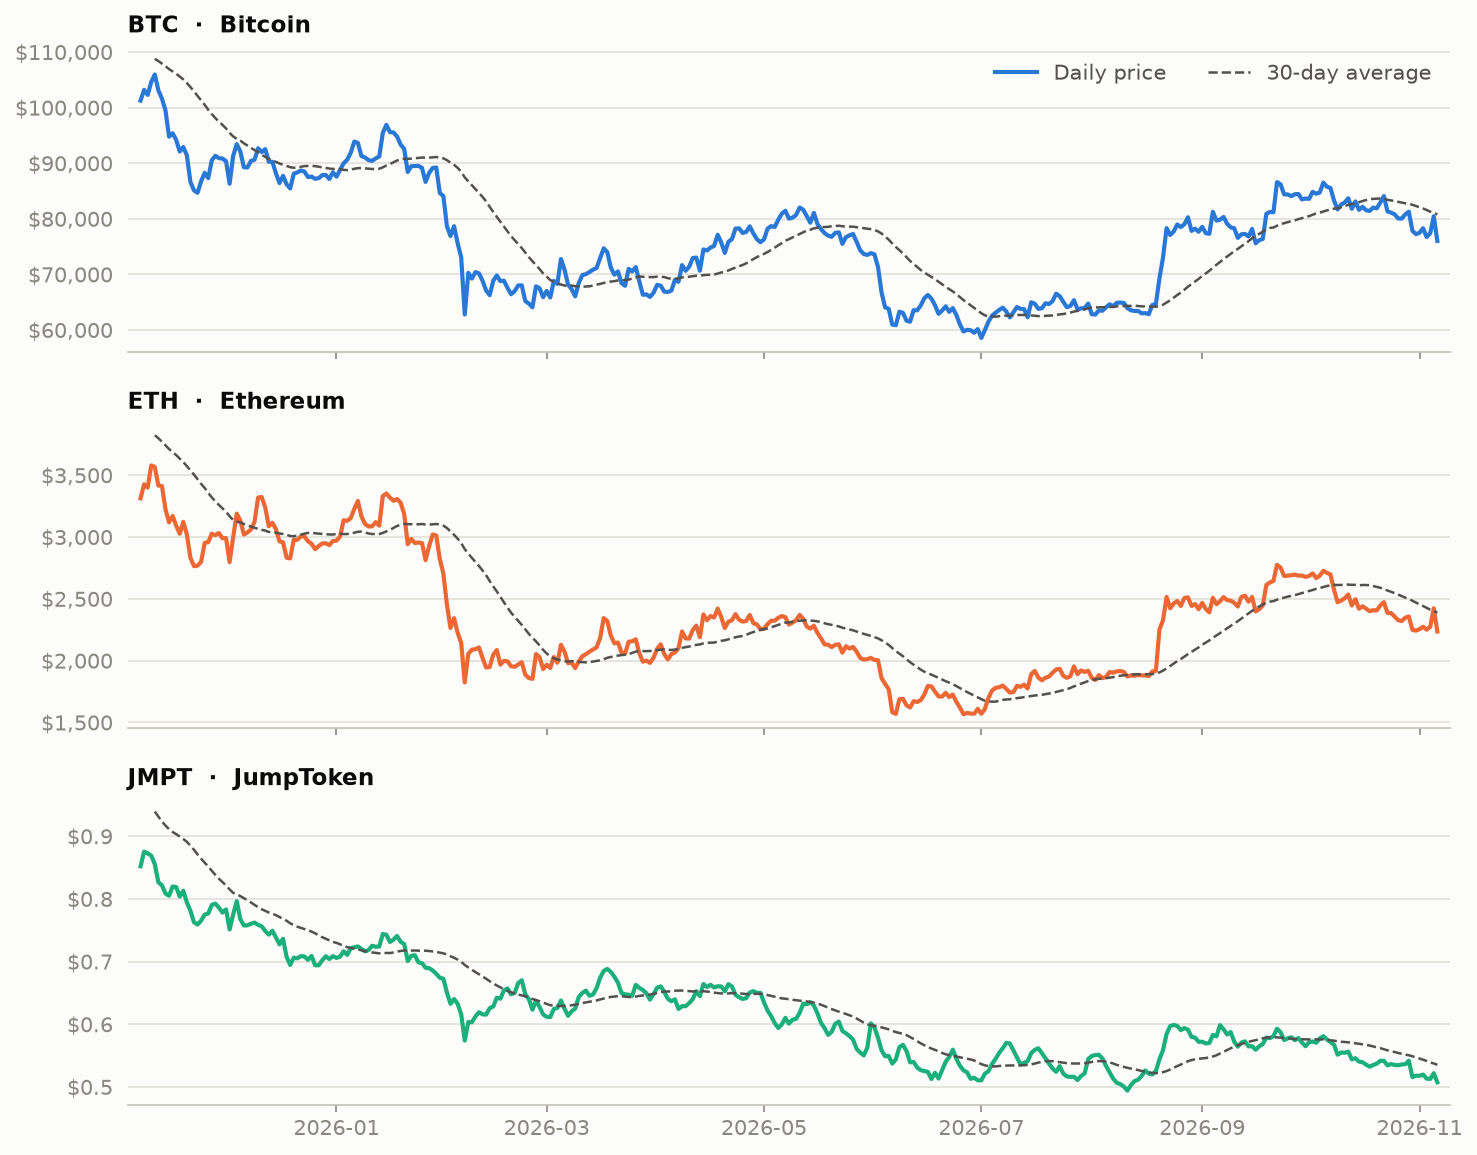
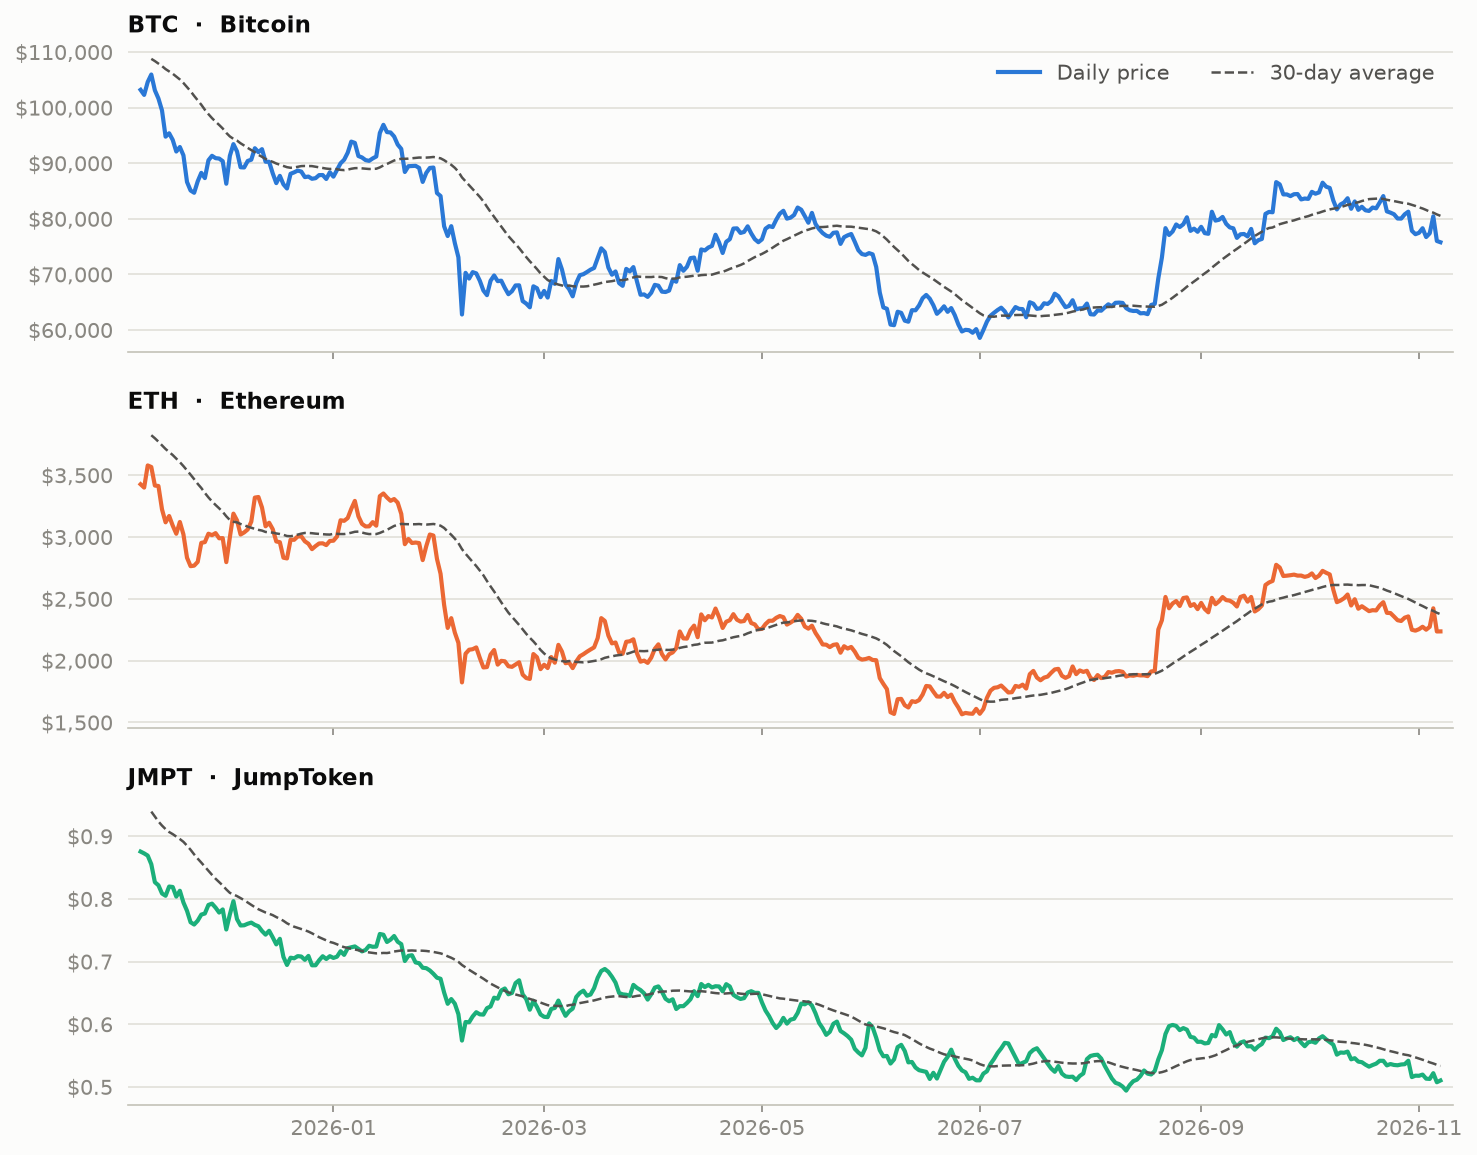
data: market update 2026-11-07

diff --git a/README.md b/README.md
@@ -9,13 +9,13 @@ The project compares two of the largest cryptocurrencies with a small-cap token:
 ## Latest stats
 
 <!-- STATS:START -->
-_Snapshot as of **2026-11-06 00:00 UTC**. Updated automatically every day._
+_Snapshot as of **2026-11-07 00:00 UTC**. Updated automatically every day._
 
 | Coin | Price | 1 day | 7 days | 30 days | 1 year | Volatility (30d) | Market cap |
 |:--|--:|--:|--:|--:|--:|--:|--:|
-| **BTC** Bitcoin | $76,006 | ▼ -5.5% | ▼ -2.4% | ▼ -11.1% | ▼ -26.8% | 37% | $1.53T |
-| **ETH** Ethereum | $2,236 | ▼ -7.7% | ▼ -0.6% | ▼ -17.1% | ▼ -34.7% | 51% | $273.19B |
-| **JMPT** JumpToken | $0.5073 | ▼ -2.8% | ▼ -1.6% | ▼ -11.2% | ▼ -40.8% | 26% | $7.49M |
+| **BTC** Bitcoin | $75,775 | ▼ -0.3% | ▼ -1.9% | ▼ -9.0% | ▼ -25.2% | 36% | $1.52T |
+| **ETH** Ethereum | $2,236 | ▲ +0.0% | ▼ -0.3% | ▼ -13.1% | ▼ -32.5% | 49% | $273.26B |
+| **JMPT** JumpToken | $0.5102 | ▲ +0.6% | ▼ -1.5% | ▼ -10.1% | ▼ -40.1% | 26% | $7.53M |
 <!-- STATS:END -->
 
 ## Charts
